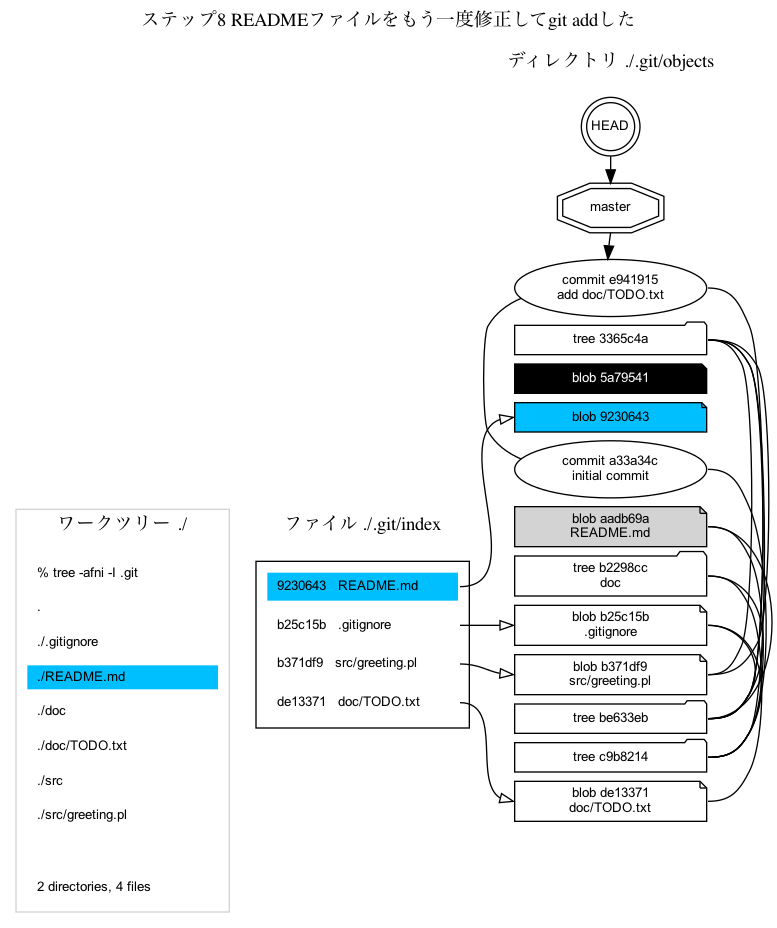
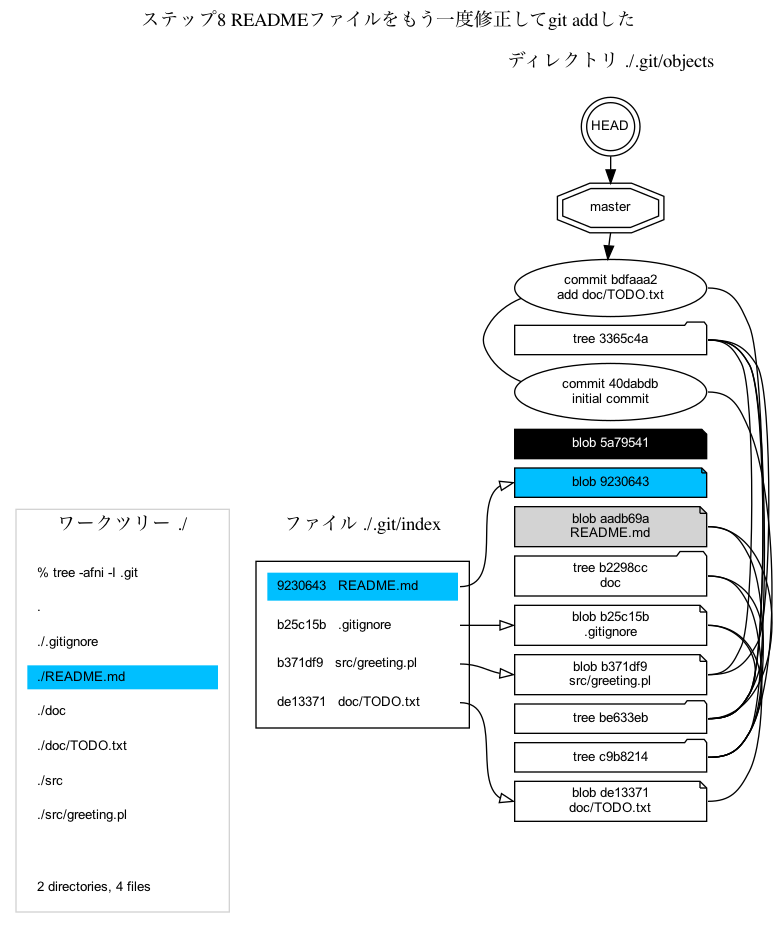
improved the test_4_index graphs: a bit larger ranskep

diff --git a/kazurayam/gitviz/visualize_git_repository.py b/kazurayam/gitviz/visualize_git_repository.py
@@ -43,24 +43,26 @@ class GitRepositoryVisualizer:
         with g.subgraph(name="cluster_objects") as j:
             j.attr(label="ディレクトリ ./.git/objects", color="white")
             j.node("anchor_objects", shape="point", width="0", style="invis")
-            # check if the current working directory is `git init`ed or not.
+            # check if the current working directory has been `git init`ed
             completed_process = SH.shell_command(wt, ['ls', '.git'])
             if completed_process.returncode == 0:
                 # yes, we find the '.git' directory. we can go down into the ".git/objects" directory
 
-                # generate the "HEAD" node
-                j.node("HEAD", "HEAD", shape="doublecircle", width="0.5", fixedsize="true")
-                # generate the branch node like "master"
-                branch_name = GIT.branch_show_current(wt).stdout
-                j.node(branch_name, branch_name, shape="doubleoctagon", width="0.3")
-                # link the HEAD and the branch
-                j.edge("HEAD", branch_name, constraint="false", minlen="3", arrowhead="normal")
-                # generate the top commit node
-                top_commit_hash = GIT.revparse(wt, branch_name).stdout
-                j.node('j_' + top_commit_hash[0:7])
-                # generate a edge from the branch node to the top commit node
-                j.edge(branch_name + ':s', 'j_' + top_commit_hash[0:7],
-                       constraint="false", minlen="3", arrowhead="normal")
+                # check if at least one commit has been made
+                if GIT.catfile_p(wt, 'HEAD').returncode == 0:
+                    # generate the "HEAD" node
+                    j.node("HEAD", "HEAD", shape="doublecircle", width="0.5", fixedsize="true")
+                    # generate the branch node like "master"
+                    branch_name = GIT.branch_show_current(wt).stdout
+                    j.node(branch_name, branch_name, shape="doubleoctagon", width="0.3")
+                    # link the HEAD and the branch
+                    j.edge("HEAD", branch_name, constraint="false", minlen="3", arrowhead="normal")
+                    # generate the top commit node
+                    top_commit_hash = GIT.revparse(wt, branch_name).stdout
+                    j.node('j_' + top_commit_hash[0:7])
+                    # generate a edge from the branch node to the top commit node
+                    j.edge(branch_name + ':s', 'j_' + top_commit_hash[0:7],
+                           constraint="false", minlen="3", arrowhead="normal")
 
                 # gegerate nodes of all objects
                 completed_process = GIT.catfile_batchcheck_batchallobjects(wt)

diff --git a/Qiita-4.worktree_index_blobs.md b/Qiita-4.worktree_index_blobs.md
@@ -2,7 +2,7 @@
 
 ## 解決すべき問題
 
-`git add`コマンドや`git commit`コマンドを実行したときGitレポジトリのなかで何がおきているのだろう？Gitの内部のデータ構造（ワークツリーとインデックスとcommit/tree/blobオブジェクト）が変化するらしいが具体的に見たことがない。具体的な図で説明してほしい。
+`git add`コマンドや`git commit`コマンドを実行したときGitレポジトリのなかで何がおきているのだろう？Gitの内部のデータ構造（ワークツリーとインデックスとcommit/tree/blobオブジェクト）が変化するらしいがモノが動く様子を見たことはない。図で説明してほしい。
 
 ## 解決方法
 
@@ -161,7 +161,7 @@ git addコマンドを実行しよう。何が起こるだろうか？
 
 1. そのblobがインデックスに含まれるようになった。
 
-1. addされたblobオブジェクトはtreeオブジェクトと線でつながっていない。孤立している。
+1. addされたblobオブジェクトはtreeオブジェクトと線でつながっていない。未完だ。
 
 ### ステップ6 `git commit`したらblobがツリーにつながった
 
@@ -177,13 +177,14 @@ git addコマンドを実行しよう。何が起こるだろうか？
 
 このグラフから次のことが読みとれる。
 
-1. `doc/TODO.txt`ファイルに対応するblobオブジェクトがほかのtreeオブジェクトと線でつながった。つまり`doc/TODO.txt`ファイルがコミットされた。
+
+1. `doc/TODO.txt`ファイルに対応するblobオブジェクトがtreeオブジェクトと線でつながって、commitオブジェクトからたどれるようになった。「*ファイルをコミットする*」というのはこういうグラフの形状の変化を意味するのだ。
 
 これでひと仕事済んだ。
 
 ### ステップ7 READMEファイルを修正して`git add`した
 
-応用問題をやろう。すなわちワークツリーにすでにある`README.md`ファイルを修正し、`git add`しよう。Gitレポジトリのなかで何が変化するだろうか？
+ワークツリーにすでにある`README.md`ファイルを修正し`git add`しよう。Gitレポジトリのなかがどう変化するだろうか？
 
 まず`REDME.md`ファイルを修正しよう。
 
@@ -212,7 +213,7 @@ git addコマンドを実行しよう。何が起こるだろうか？
 
 ### ステップ8 READMEファイルをもう一度修正して`git add`した
 
-`README`ファイルを修正して`git add`したあとふつうなら`git commit`するところだがここでひとつ実験しよう。もう一度`README`ファイルを修正して`git add`したら、インデックスやblobオブジェクトはどういう状態になるのだろうか？
+`README`ファイルを修正して`git add`したあと、`git commit`せずに、もう一度`README`ファイルを修正して`git add`しよう。インデックスやblobオブジェクトがどういう状態になるのだろうか？
 
 READMEファイルを修正しよう。
 
@@ -233,7 +234,7 @@ addしよう。
 このグラフから次のことが読みとれる。
 
 1. 修正された`README.md`ファイルに対応する新しいblobオブジェクト(hash=`9230643`)ができた。インデックスが新しいblobを参照するように更新された。
-1. 前回`git add`したとき作られたblobオブジェクト(hash=5a79541)は`.git/objects`ディレクトリに残っている。ただしこのblobは完全に孤立している。すなわちtreeオブジェクトと線でつながっていないし、インデックスともつながっていない。
+1. 前回`git add`したとき作られたblobオブジェクト(hash=5a79541)は`.git/objects`ディレクトリに残っている。ただしこのblobは完全に孤立している。すなわちtreeオブジェクトと線でつながっていないし、インデックスとの繋がりも無くなってしまった。
 
 ### ステップ9 READMEファイルを`git commit`した
 
@@ -251,13 +252,13 @@ addしよう。
 
 1. commitオブジェクトがひとつ増えた。最新のcommitオブジェクトから線が伸びて最新状態のREADME.mdファイルのblobが参照される形になった。
 
-1. addされたがcommitされなかったblobオブジェクト(hash=`5a79541`)は放置されている。
+1. addされたがcommitされなかった孤立したｔblobオブジェクト(hash=`5a79541`)は放置されている。
 
 三度目のコミットが完了した。めでたしめでたし。
 
 ### ゴミ掃除
 
-孤立したblobオブジェクトはこの先どうなる運命なのでしょうか？ じつはGitはゴミ掃除をする機能を備えていて、適切なタイミングで自動的にゴミ掃除を済ませてくれる。
+孤立したblobオブジェクトはこの先どうなる運命なのだろう？ じつはGitはゴミ掃除をする機能を備えていて、適切なタイミングで自動的にゴミ掃除を済ませてくれる。
 
 - [git gc](https://git-scm.com/docs/git-gc)
 
@@ -289,7 +290,7 @@ $ pytest -s kazurayam/visualize_git_repository.py::test_4_index
 
 `git add`とやったとき、`git commit`とやったときGitレポジトリの中でデータがどのように変化していくのかをクリアに図示することができたとおもいます。
 
-具体的で細かい情報満載のグラフを9個作った。作画ツールでグラフを手書きするやりかたでは9個も作れなかっただろう。gitコマンドでGitレポジトリの状態を読み出してDOT言語に変換しGraphvizで図を描くというやり方だからできた。
+具体的で細かい情報満載のグラフを9個作った。作画ツールで矩形や曲線を手書きするやりかたでは9個も作れなかった。gitコマンドでGitレポジトリの状態を読み出してDOT言語に変換しGraphvizで図を描くというやり方だからこそできた。
 
 
 - author: kazurayam
